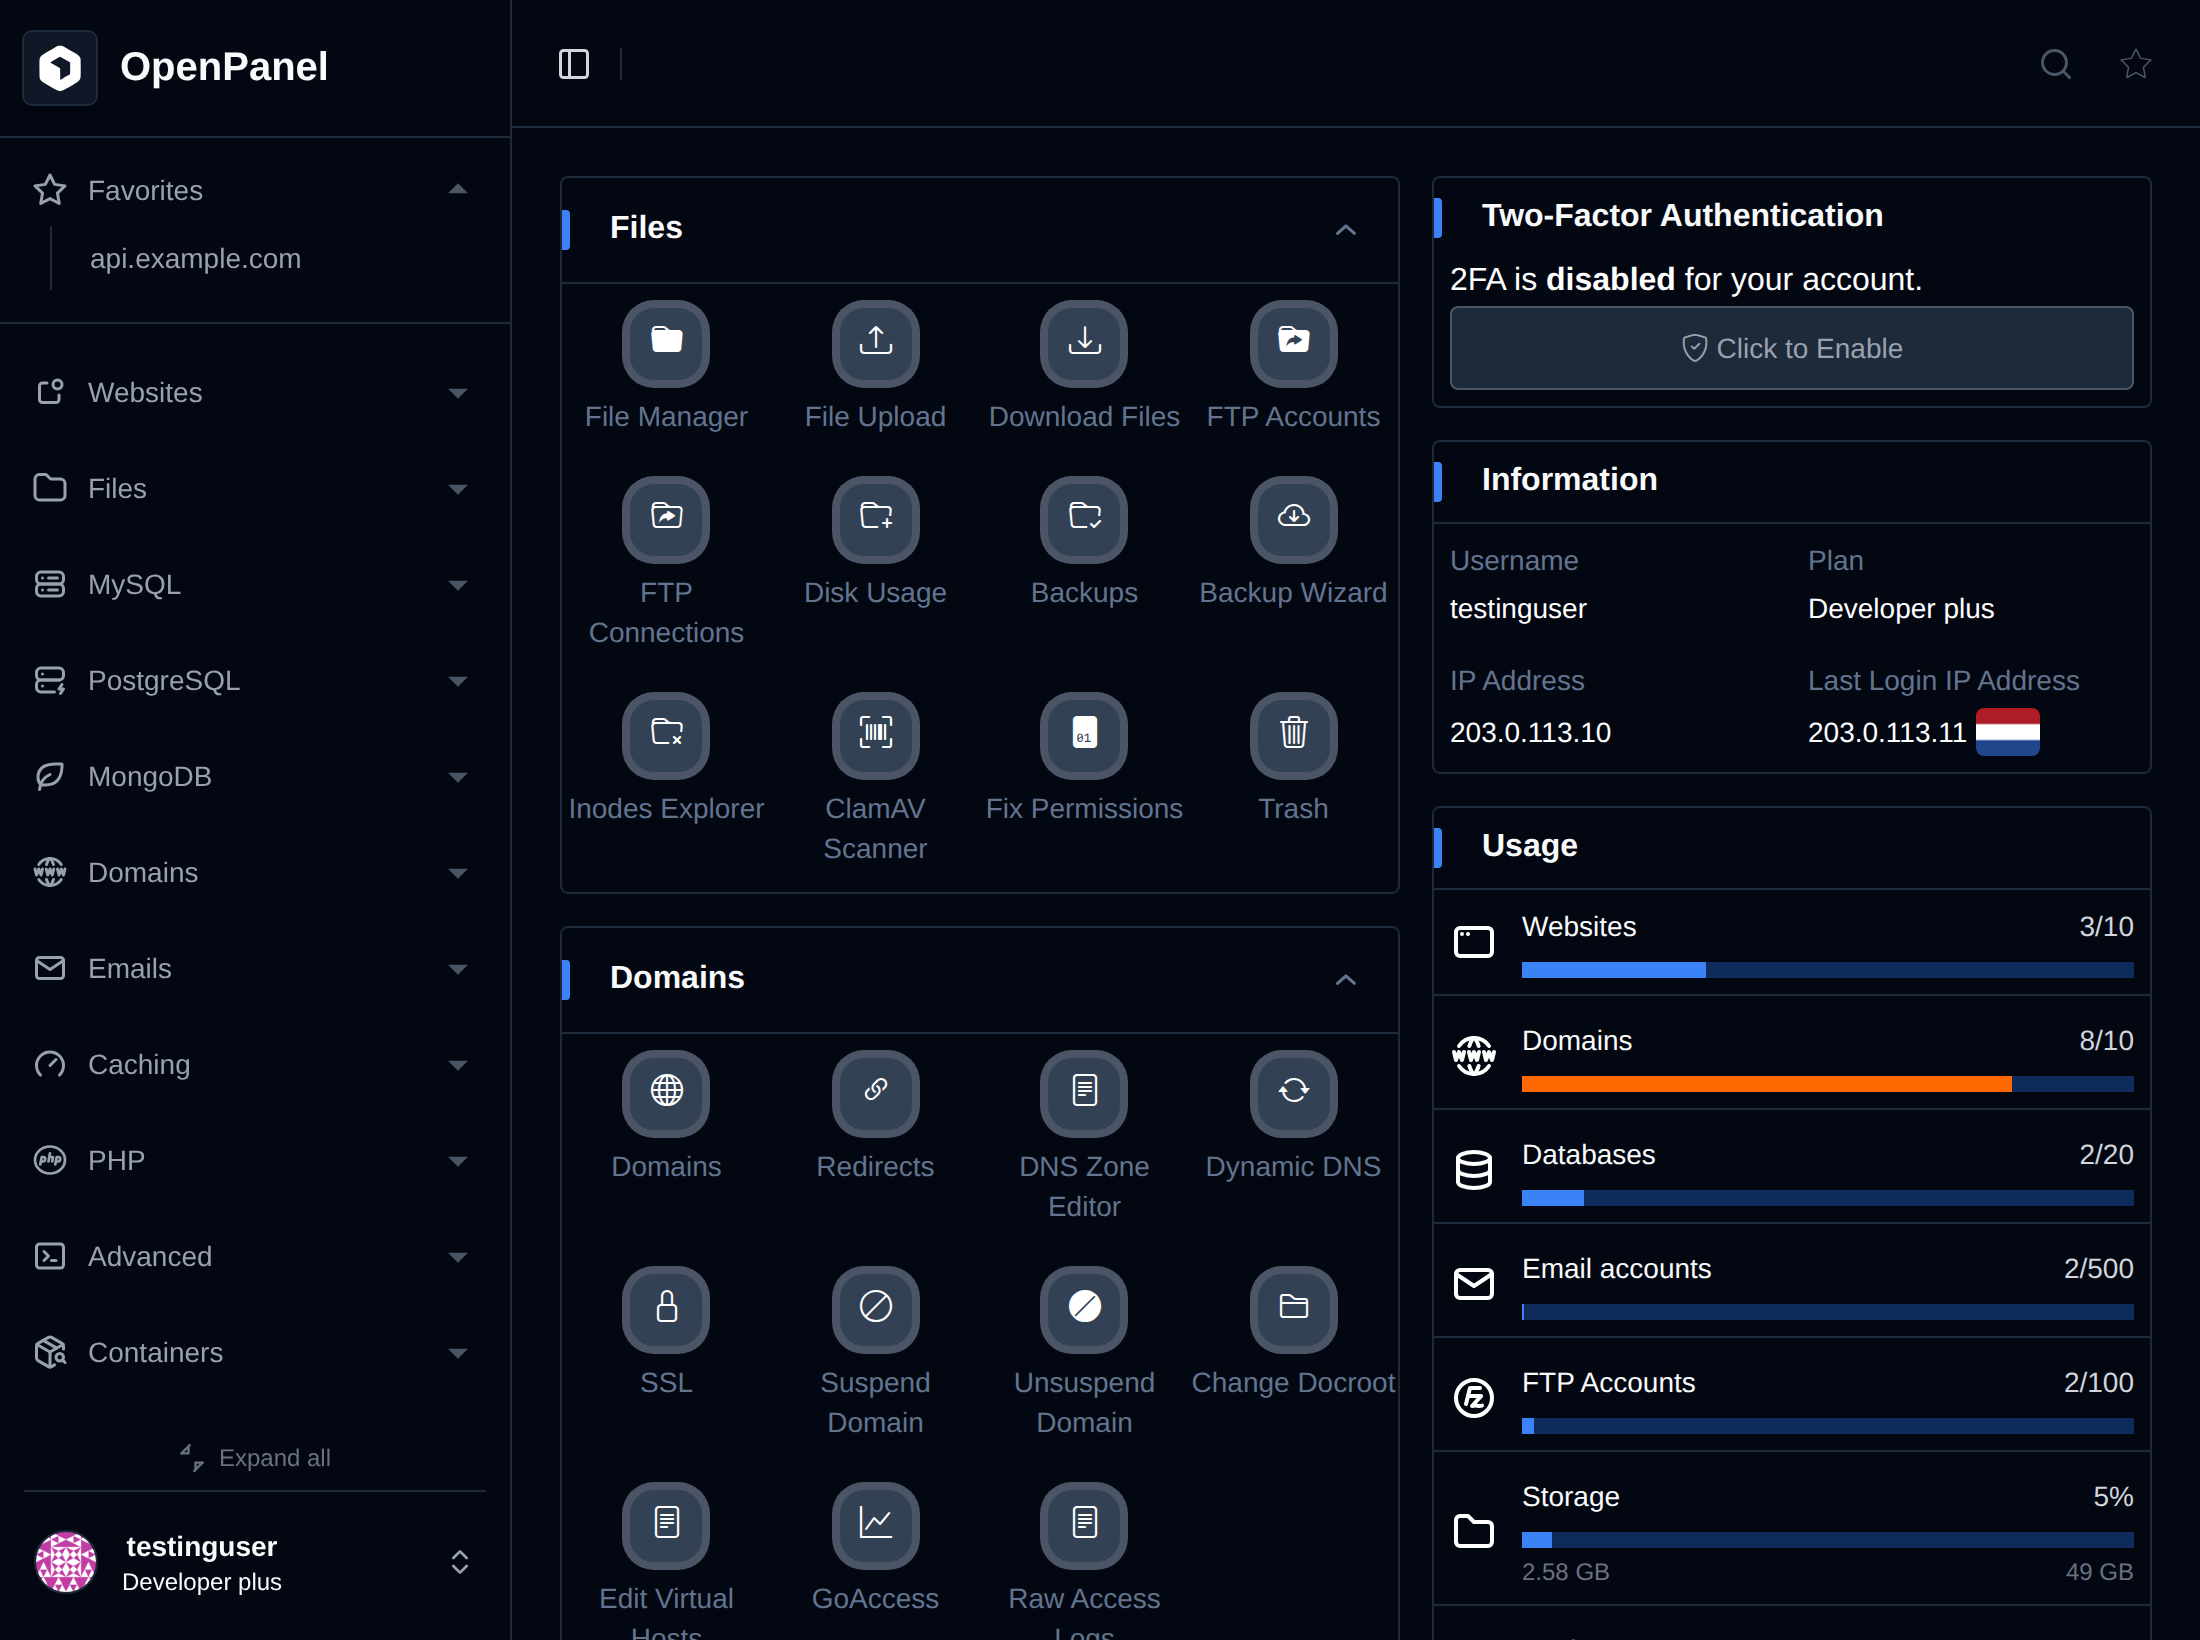
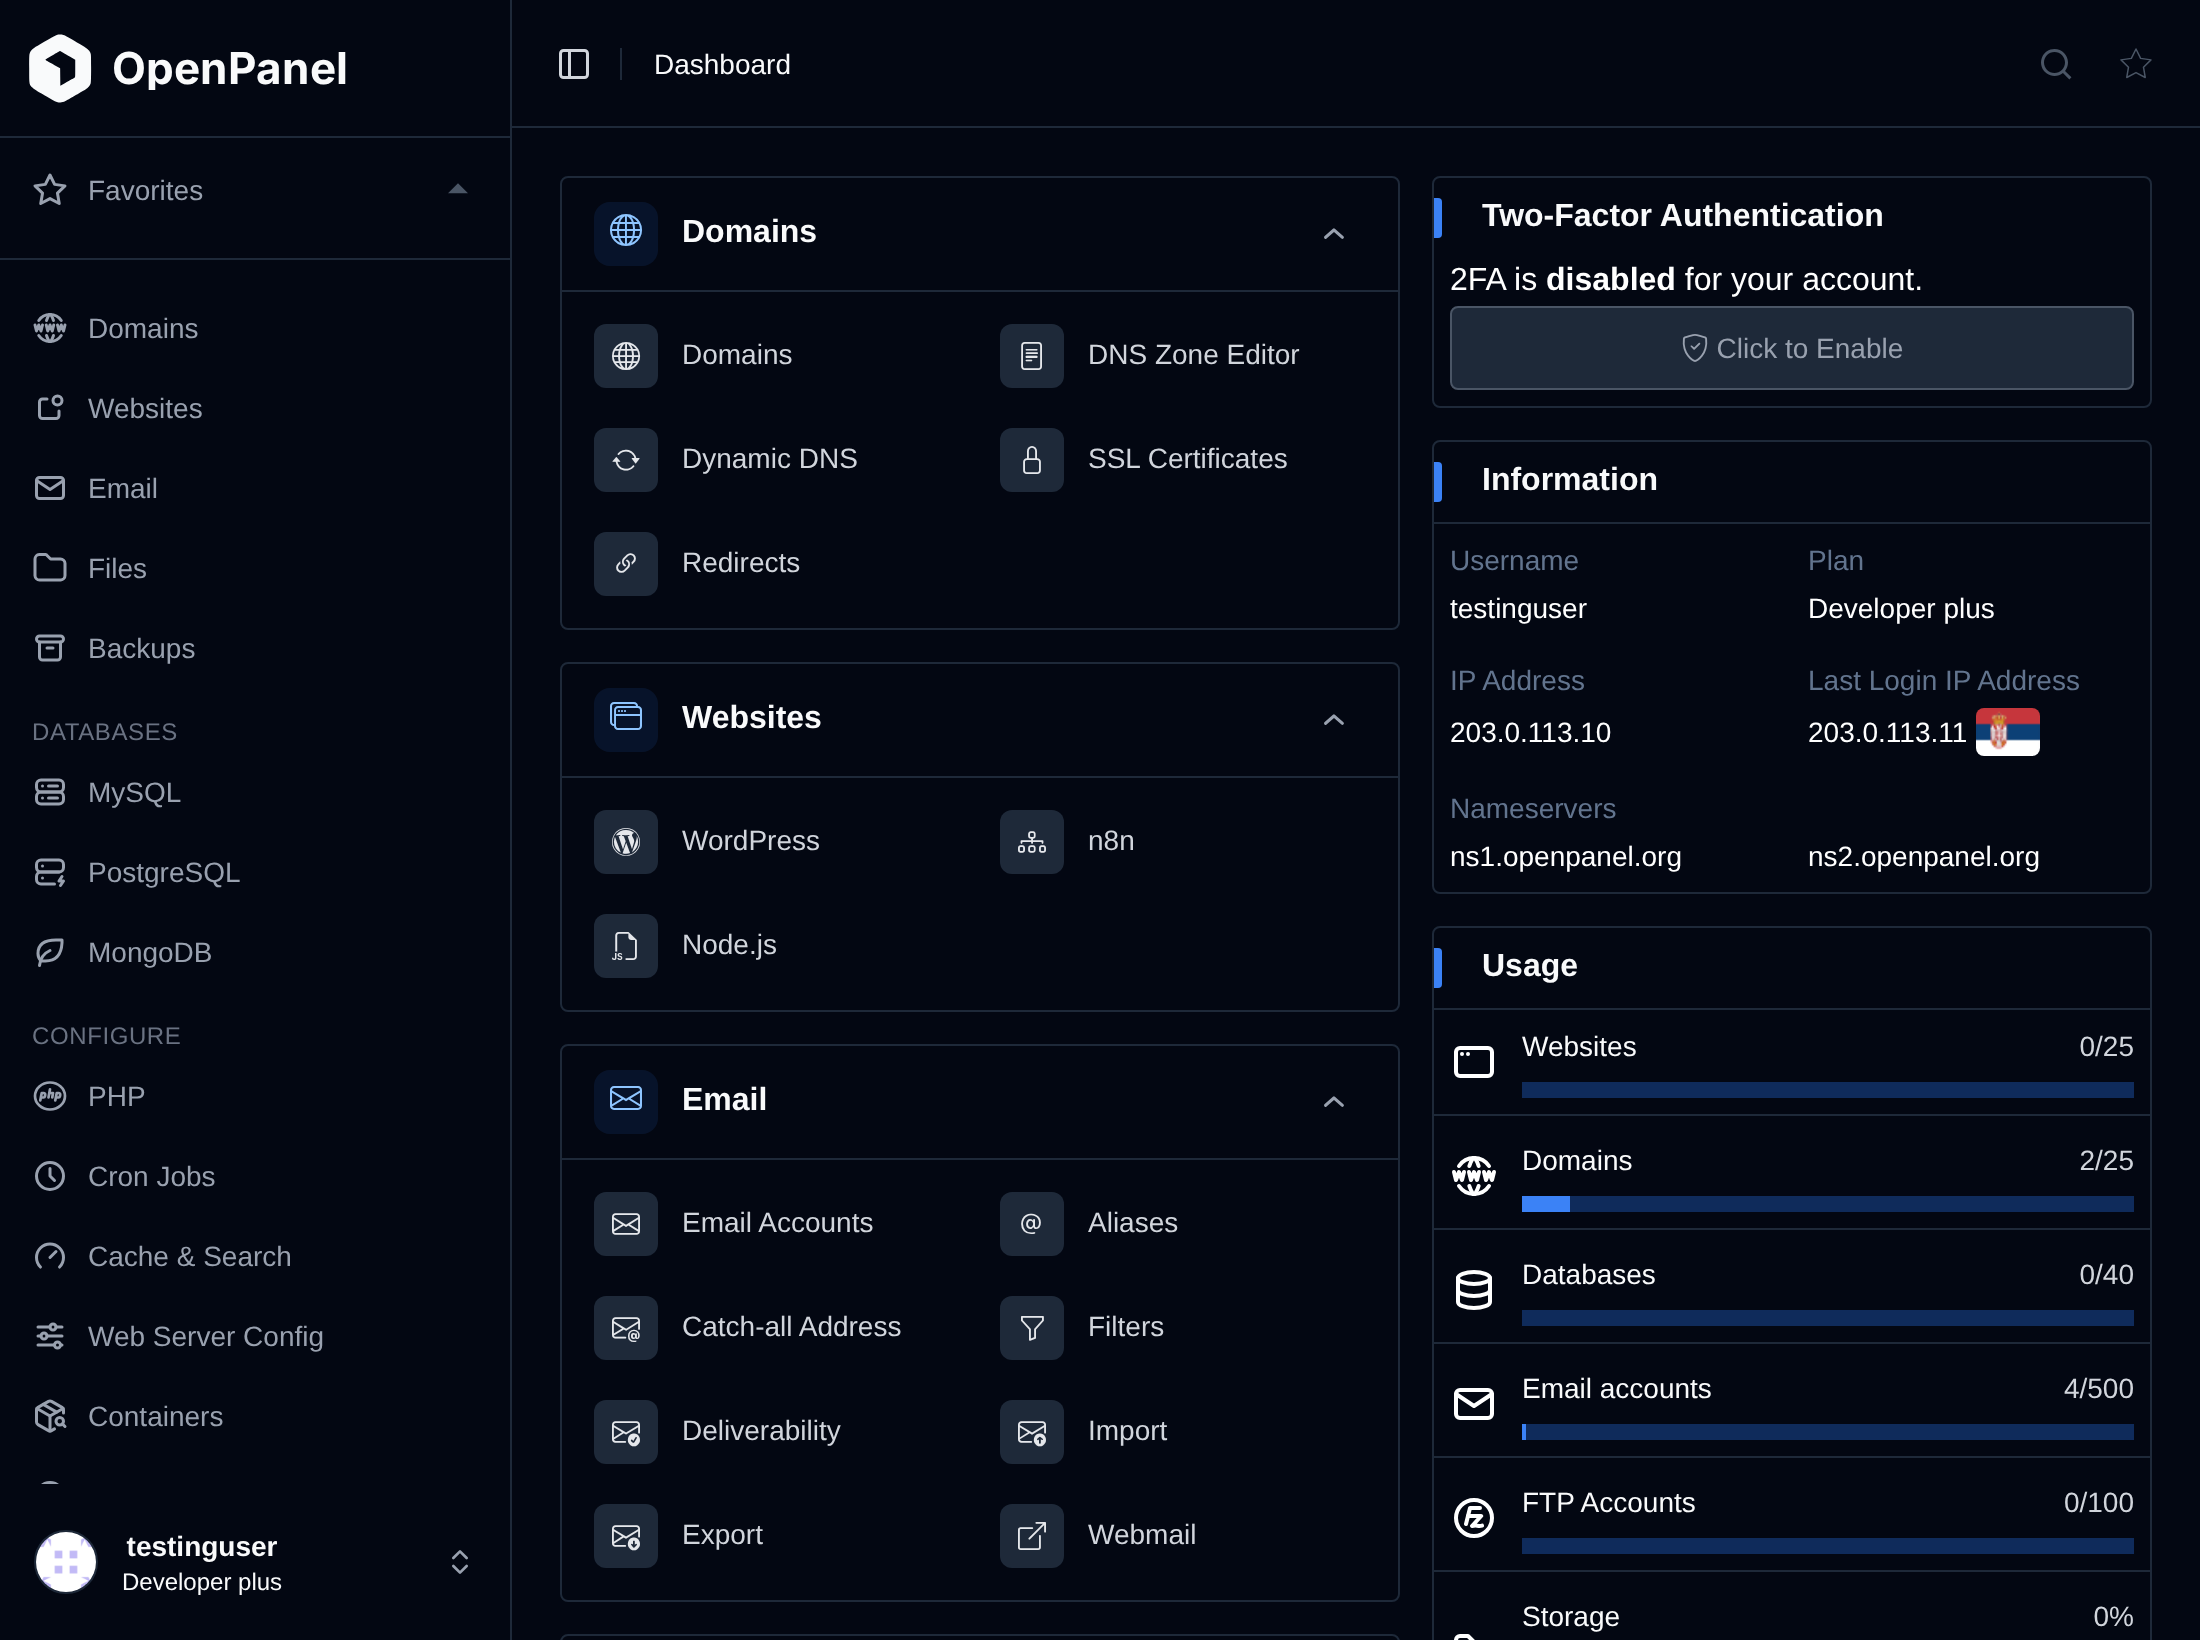
dashboard page style change

diff --git a/openpanel/internal/web/templates/dashboard/dashboard.html b/openpanel/internal/web/templates/dashboard/dashboard.html
@@ -83,7 +83,7 @@
               localStorage.setItem("section_state_" + {{toJSON .Section.Key}}, this.open);
             }
           }'
-          class="overflow-hidden rounded-lg bg-white border border-gray-200 dark:bg-gray-950 dark:border-gray-800"
+          class="overflow-hidden rounded bg-white border border-gray-200 dark:bg-gray-950 dark:border-gray-800"
         >
           <div class="flex items-center justify-between gap-4 px-4 py-3 border-b border-gray-200 dark:border-gray-800 cursor-move active:cursor-grabbing" id="section-title-{{.Section.Key}}">
             <h2 class="flex items-center gap-3 text-base font-semibold text-gray-900 dark:text-gray-50">
@@ -125,7 +125,7 @@
 <!-- START templates/dashboard/dashboard.html -->
 
 <script src="{{static "vendor/sortablejs/Sortable.min.js"}}"></script>
-<style>.cursor-move { cursor: move; } .cursor-grabbing:active { cursor: grab; } .\-left-4 { left:0!important;}</style>
+<style>.cursor-move { cursor: move; } .cursor-grabbing:active { cursor: grab; } .\-left-4 { left:0!important;} .dashboard-locked .cursor-move { cursor: default; }</style>
 {{if eq .MenuStyle "modern"}}
 <!-- utilities missing from dist/output.css -->
 <style>
@@ -172,7 +172,12 @@
 document.addEventListener('DOMContentLoaded', function() {
     const sortableContainer = document.getElementById('dashboard-sortable-area');
 
+    let locked = false;
+    try { locked = localStorage.getItem('dashboard_locked') === 'true'; } catch (e) {}
+    sortableContainer.classList.toggle('dashboard-locked', locked);
+
     const sortable = Sortable.create(sortableContainer, {
+        disabled: locked,
         animation: 150,
         handle: '[id^="section-title-"]',
         ghostClass: 'opacity-50',
@@ -186,6 +191,11 @@ document.addEventListener('DOMContentLoaded', function() {
             const order = sortable.toArray();
             localStorage.setItem('dashboard_section_order', JSON.stringify(order));
         }
+    });
+
+    window.addEventListener('dashboard-lock', function(e) {
+        sortable.option('disabled', e.detail);
+        sortableContainer.classList.toggle('dashboard-locked', e.detail);
     });
 
     const savedOrder = JSON.parse(localStorage.getItem('dashboard_section_order'));

diff --git a/openpanel/internal/web/templates/partials/_footer.html b/openpanel/internal/web/templates/partials/_footer.html
@@ -38,6 +38,16 @@
 
                 {{if eq .RequestPath "/dashboard"}}
                 <div role="group">
+                    <span role="menuitem" id="tour-dashboard-layout" class="flex justify-between group/DropdownMenuItem relative select-none items-center rounded py-1.5 pl-2 pr-1 outline-none transition-colors sm:text-sm text-gray-900 dark:text-gray-50">
+                        <span>{{.T.Get "Layout"}}:</span>
+                        <span class="flex gap-2 items-center">
+                            <button type="button" @click="setDashboardLocked(!$store.dashboardLocked.value)" :title="$store.dashboardLocked.value ? '{{.T.Get "Unlock layout"}}' : '{{.T.Get "Lock layout"}}'" :class="$store.dashboardLocked.value ? 'bg-slate-700 text-white' : 'bg-slate-200 text-slate-800 dark:bg-gray-800 dark:text-gray-400'" class="px-1.5 p-1 rounded-lg cursor-pointer"><i class="bi" :class="$store.dashboardLocked.value ? 'bi-lock-fill' : 'bi-unlock'"></i></button>
+                            <button type="button" @click="resetDashboardLayout()" title="{{.T.Get "Reset layout"}}" class="px-1.5 p-1 rounded-lg cursor-pointer bg-slate-200 text-slate-800 dark:bg-gray-800 dark:text-gray-400"><i class="bi bi-arrow-counterclockwise"></i></button>
+                        </span>
+                    </span>
+                </div>
+                <div role="separator" aria-orientation="horizontal" class="-mx-1 my-1 h-px border-t border-gray-200 dark:border-gray-800"></div>
+                <div role="group">
                     <span role="menuitem" id="tour-icons-position" class="flex justify-between group/DropdownMenuItem relative select-none items-center rounded py-1.5 pl-2 pr-1 outline-none transition-colors sm:text-sm text-gray-900 dark:text-gray-50">
                         <span>{{.T.Get "Icons position"}}:</span>
                         <span class="flex gap-2 items-center">

diff --git a/openpanel/internal/web/templates/base.html b/openpanel/internal/web/templates/base.html
@@ -113,6 +113,27 @@
         }
     </script>
     <script>
+        // dashboard lock/reset live in localStorage, same as the saved section order
+        document.addEventListener('alpine:init', () => {
+            let locked = false;
+            try { locked = localStorage.getItem('dashboard_locked') === 'true'; } catch (e) {}
+            Alpine.store('dashboardLocked', { value: locked });
+        });
+        function setDashboardLocked(v) {
+            Alpine.store('dashboardLocked').value = v;
+            try { localStorage.setItem('dashboard_locked', v); } catch (e) {}
+            window.dispatchEvent(new CustomEvent('dashboard-lock', { detail: v }));
+        }
+        function resetDashboardLayout() {
+            try {
+                Object.keys(localStorage)
+                    .filter(k => k === 'dashboard_section_order' || k.startsWith('section_state_'))
+                    .forEach(k => localStorage.removeItem(k));
+            } catch (e) {}
+            window.location.reload();
+        }
+    </script>
+    <script>
         // Global store for the filemanager's button style ("classic" vs
         // "modern") - initialized from the server-resolved value (see
         // web.ReadFilemanagerView) so the account menu's style toggle (only

diff --git a/website/docs/panel/dashboard/dashboard.md b/website/docs/panel/dashboard/dashboard.md
@@ -13,8 +13,27 @@ The OpenPanel dashboard interface is divided in two sections:
 
 When your hosting provider offers an upgrade plan, the dashboard also has an [**Upgrade now**](/docs/panel/dashboard/upgrade/) tab that compares your plan with the upgrade plan.
 
-![OpenPanel dashboard with the sidebar, feature shortcuts grouped by section, and the 2FA, Information and Usage widgets](/img/openpanel-screenshots/dashboard/dashboard-window.png#gh-light-mode-only)
-![OpenPanel dashboard with the sidebar, feature shortcuts grouped by section, and the 2FA, Information and Usage widgets](/img/openpanel-screenshots/dashboard/dashboard-window_dark.png#gh-dark-mode-only)
+![OpenPanel dashboard with the sidebar, feature shortcuts in two columns of sections, and the 2FA, Information and Usage widgets](/img/openpanel-screenshots/dashboard/dashboard-window.png#gh-light-mode-only)
+![OpenPanel dashboard with the sidebar, feature shortcuts in two columns of sections, and the 2FA, Information and Usage widgets](/img/openpanel-screenshots/dashboard/dashboard-window_dark.png#gh-dark-mode-only)
+
+With the [Modern menu style](/docs/panel/dashboard/menu-style/), each section has an icon next to its title, and on wide screens the sections are shown in two columns.
+
+## Customize the layout
+
+You can rearrange the feature sections to suit how you work:
+
+- **Reorder**: drag a section by its title to move it.
+- **Collapse**: click the arrow on the right of a section's title to hide or show its icons.
+
+To lock or reset the layout, click your profile at the bottom of the sidebar and use the buttons next to **Layout**:
+
+- **Lock** (padlock icon): stops sections from being dragged, so you can't move them by accident, for example while scrolling on a phone. Click it again to unlock.
+- **Reset** (circular arrow icon): puts every section back in its original order and expands any collapsed sections, then reloads the page.
+
+![User menu with the Layout row, showing the lock and reset buttons](/img/openpanel-screenshots/dashboard/dashboard-layout.png#gh-light-mode-only)
+![User menu with the Layout row, showing the lock and reset buttons](/img/openpanel-screenshots/dashboard/dashboard-layout_dark.png#gh-dark-mode-only)
+
+The section order, collapsed sections and lock are saved in your browser, so they apply only on that browser and are cleared if you clear its site data.
 
 ## Two-Factor Authentication
 

diff --git a/website/docs/panel/dashboard/menu-style.md b/website/docs/panel/dashboard/menu-style.md
@@ -19,7 +19,7 @@ In the Modern menu:
 - The breadcrumbs at the top of the page follow the same structure, for example **Databases > MySQL > Users**.
 - Pages that manage a single service, like MySQL, Redis or the web server, have **Terminal** and **Logs** tabs that open that service's terminal and logs without leaving the page's area.
 - Tabs that open in a new browser tab, like **phpMyAdmin** and **Webmail**, are marked with an arrow icon.
-- The dashboard sections are listed in the same order as the sidebar.
+- The dashboard sections are listed in the same order as the sidebar, each with its own icon, and on wide screens they're shown in two columns.
 
 ## Change the menu style
 
